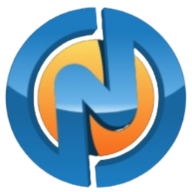
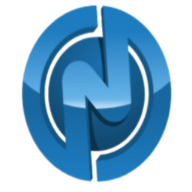
sidebar modified alongside welcome of dashboardMain

diff --git a/app/dashboard/page.jsx b/app/dashboard/page.jsx
@@ -7,7 +7,7 @@ import globalStyle from '../globals.css';
 
 import { FontAwesomeIcon } from '@fortawesome/react-fontawesome'; 
 
-import { faHome, faChevronDown, faTasks, faPeopleGroup, faMoneyBill, faUser, faGear, faRightFromBracket } from '@fortawesome/free-solid-svg-icons';
+import { faHome, faPeopleGroup, faMoneyBill, faUser, faGear, faRightFromBracket } from '@fortawesome/free-solid-svg-icons';
 
 import Metadata from '../components/Metadata';
 import Profile from '../profile/page';
@@ -20,6 +20,18 @@ import Survey from '../survey/page';
 import Transactions from '../transactions/page';
 import Settings from '../settings/page';
 import Logout from '../logout/page';   
+
+
+
+import {  
+  Users,   
+  FileText, 
+  BarChart2, 
+  User, 
+  Settings as SettingsIcon, 
+  LogOut, 
+  ChevronDown 
+} from 'lucide-react'; 
 
 const DashBoard = () => {
   // Set 'dashboardMain' as the default active component
@@ -65,80 +77,107 @@ const DashBoard = () => {
 
       {/* Dashboard Left Section (Side Bar) */}
       <div className='w-1/6 bg-[lightseagreen] dashboard-sidebar-border h-[100vh] sticky top-0 left-0 bottom-0 border-2 border-[lightseagreen] border-solid text-center align-middle py-6 text-white text-2xl font-semibold'>
-        <div className='flex items-center justify-center align-middle'>
-          <img src="/logo2.png" className='w-48 lg:w-48 h-44 mb-6 mr-2' alt="NJANGI Logo" /> 
-        </div>
+        
+        <div className='flex items-center justify-center mb-4 mt-[-15px]'>
+          <div className=' rounded-full p-2 w-60 h-60 flex flex-col items-center justify-center'>
+            <img src="/logo3.png" className='w-32 lg:w-32 h-32 mr-2 ' alt="NJANGI Logo" /> 
+            <h1 className=' tracking-wider text-4xl font-extrabold'>NJANGIFY</h1> 
+          </div>
+        </div> 
 
+       
         <div 
           onClick={() => setActiveComponent('dashboardMain')} 
-          className={`mb-4 flex align-middle justify-center hover:bg-white hover:text-[lightseagreen] hover:py-1 hover:cursor-pointer ease-in-out duration-300 ${activeComponent === 'dashboardMain' ? 'text-gold' : ''}`}
+          className={`mb-2 mt-[-20px] flex items-center px-4 py-2 rounded-lg duration-300 ease-in-out hover:bg-white hover:text-teal-500 cursor-pointer transition-all ${activeComponent === 'dashboardMain' ? 'bg-white text-teal-500' : ''}`}
         >
-          <FontAwesomeIcon icon={faHome} className='h-8 w-8' />   
-          <h1 className='tracking-wider ml-2 mt-[3px]'>Dashboard</h1>
+          <FontAwesomeIcon icon={faHome} className='h-6 w-6' /> 
+          <span className='ml-3'>Dashboard</span>
         </div>
+
 
         <div className='relative mb-4'>
           <div 
-            className='flex items-center justify-center hover:bg-white hover:text-[lightseagreen] hover:py-1 hover:cursor-pointer ease-in-out duration-300 p-2 rounded' 
-            onClick={toggleDropdown}
-          >
+            className={`flex items-center justify-between px-4 py-2 rounded-lg hover:bg-white hover:text-teal-500 duration-300 ease-in-out cursor-pointer transition-all ${isOpen && 'mb-1'} ${['about-you', 'income', 'identity', 'survey'].includes(activeComponent) ? 'bg-white text-teal-500' : ''}`} 
+            onClick={toggleDropdown}>
             <div className='flex items-center'>
-              <FontAwesomeIcon icon={faTasks} className='h-8 w-8' />  
-              <h1 className='tracking-wider ml-2'>Complete</h1>
+              <FileText size={20} />
+              <span className='ml-3'>Complete</span>
             </div>
-            <FontAwesomeIcon icon={faChevronDown} className={`h-5 w-5 ml-2 ease-in-out duration-[250ms] transform transition-transform ${isOpen ? 'rotate-180' : ''}`} />
+            <ChevronDown className={`h-5 w-5 transition-transform duration-200 ${isOpen ? 'rotate-180' : ''}`} />
           </div>
 
-          {/* Complete Dropdown List */}
           {isOpen && (
-            <ul className='mt-2 w-full rounded ease-in-out duration-300'>
-              <li className={`p-2 hover:bg-slate-200 hover:text-[lightseagreen] hover:cursor-pointer hover:py-1 ease-in-out duration-300 ${activeComponent === 'about-you' ? 'text-gold' : ''}`} onClick={() => setActiveComponent('about-you')}>About You</li>
-              <li className={`p-2 hover:bg-slate-200 hover:text-[lightseagreen] hover:cursor-pointer hover:py-1 ease-in-out duration-300 ${activeComponent === 'income' ? 'text-gold' : ''}`} onClick={() => setActiveComponent('income')}>Income</li>
-              <li className={`p-2 hover:bg-slate-200 hover:text-[lightseagreen] hover:cursor-pointer hover:py-1 ease-in-out duration-300 ${activeComponent === 'identity' ? 'text-gold' : ''}`} onClick={() => setActiveComponent('identity')}>Identity</li>
-              <li className={`p-2 hover:bg-slate-200 hover:text-[lightseagreen] hover:cursor-pointer hover:py-1 ease-in-out duration-300 ${activeComponent === 'survey' ? 'text-gold' : ''}`} onClick={() => setActiveComponent('survey')}>Survey</li>
+            <ul className='mt-1 w-full rounded-lg overflow-hidden duration-300 ease-in-out transition-all bg-teal-600'>
+              <li 
+                className={`py-2 pl-12 pr-4 hover:bg-white duration-300 ease-in-out hover:text-teal-500 text-list-complete cursor-pointer transition-all text-left ${activeComponent === 'about-you' ? 'bg-white text-teal-500' : ''}`} 
+                onClick={() => setActiveComponent('about-you')}
+              >
+                About You
+              </li> 
+              <li 
+                className={`py-2 pl-12 pr-4 hover:bg-white duration-300 ease-in-out hover:text-teal-500 text-list-complete cursor-pointer transition-all text-left ${activeComponent === 'income' ? 'bg-white text-teal-500' : ''}`} 
+                onClick={() => setActiveComponent('income')}
+              >
+                Income
+              </li>
+              <li 
+                className={`py-2 pl-12 pr-4 hover:bg-white duration-300 ease-in-out hover:text-teal-500 cursor-pointer text-list-complete transition-all text-left ${activeComponent === 'identity' ? 'bg-white text-teal-500' : ''}`} 
+                onClick={() => setActiveComponent('identity')}
+              >
+                Identity
+              </li>
+              <li 
+                className={`py-2 pl-12 pr-4 hover:bg-white duration-300 ease-in-out hover:text-teal-500 cursor-pointer text-list-complete transition-all text-left ${activeComponent === 'survey' ? 'bg-white text-teal-500' : ''}`} 
+                onClick={() => setActiveComponent('survey')}
+              >
+                Survey
+              </li>
             </ul>
           )}
         </div>
 
         <div 
           onClick={() => setActiveComponent('groups')}  
-          className={`mt-4 flex items-center justify-center hover:bg-white hover:text-[lightseagreen] hover:py-1 hover:cursor-pointer ease-in-out duration-300 ${activeComponent === 'groups' ? 'text-gold' : ''}`}
+          className={`mb-2 flex items-center px-4 py-2 duration-300 ease-in-out rounded-lg hover:bg-white hover:text-teal-500 cursor-pointer transition-all ${activeComponent === 'groups' ? 'bg-white text-teal-500' : ''}`}
         >
-          <FontAwesomeIcon icon={faPeopleGroup} className='h-10 w-10' />
-          <h1 className='tracking-wider ml-2 mt-[6px]'>Groups</h1> 
-        </div>
+          <FontAwesomeIcon icon={faPeopleGroup} className='h-8 w-8' /> 
+          <span className='ml-3'>Groups</span>
+        </div> 
 
         <div 
           onClick={() => setActiveComponent('transactions')}  
-          className={`mt-5 flex items-center hover:bg-white hover:text-[lightseagreen] hover:py-1 justify-center hover:cursor-pointer ease-in-out duration-300 ${activeComponent === 'transactions' ? 'text-gold' : ''}`}
+          className={`mb-2 flex items-center px-4 py-2 duration-300 ease-in-out rounded-lg hover:bg-white hover:text-teal-500 cursor-pointer transition-all ${activeComponent === 'transactions' ? 'bg-white text-teal-500' : ''}`}
         >
-          <FontAwesomeIcon icon={faMoneyBill} className='h-10 w-10' />
-          <h1 className='tracking-wider ml-2 mt-[6px]'>Transactions</h1> 
+          <FontAwesomeIcon icon={faMoneyBill} className='h-7 w-7' />
+          <span className='ml-3'>Transactions</span>
         </div>
+
 
         <div 
           onClick={() => setActiveComponent('profile')} 
-          className={`mt-5 mb-4 flex align-middle justify-center hover:bg-white hover:text-[lightseagreen] hover:py-1 hover:cursor-pointer ease-in-out duration-300 ${activeComponent === 'profile' ? 'text-gold' : ''}`}
+          className={`mb-2 flex items-center px-4 py-2 rounded-lg hover:bg-white hover:text-teal-500 cursor-pointer transition-all ${activeComponent === 'profile' ? 'bg-white text-teal-500' : ''}`}
         >
-          <FontAwesomeIcon icon={faUser} className='h-8 w-8' />  
-          <h1 className='tracking-wider ml-2 mt-[3px]'>Profile</h1>
+          <FontAwesomeIcon icon={faUser} className='h-6 w-6' /> 
+          <span className='ml-3'>Profile</span>
         </div>
 
-        <div 
+       <div 
           onClick={() => setActiveComponent('settings')} 
-          className={`mt-5 mb-4 flex align-middle justify-center hover:bg-white hover:text-[lightseagreen] hover:py-1 hover:cursor-pointer ease-in-out duration-300 ${activeComponent === 'settings' ? 'text-gold' : ''}`}
+          className={`mb-5 flex items-center px-4 py-2 rounded-lg hover:bg-white hover:text-teal-500 cursor-pointer transition-all ${activeComponent === 'settings' ? 'bg-white text-teal-500' : ''}`}
         >
-          <FontAwesomeIcon icon={faGear} className='h-8 w-8' />  
-          <h1 className='tracking-wider ml-2 mt-[3px]'>Settings</h1>
+          <FontAwesomeIcon icon={faGear} className='h-6 w-6' />  
+          <span className='ml-3'>Settings</span>
         </div>
 
         <div 
           onClick={() => setActiveComponent('logout')} 
-          className={`mt-5 mb-4 flex align-middle justify-center hover:bg-white hover:text-[lightseagreen] hover:py-1 hover:cursor-pointer ease-in-out duration-300 ${activeComponent === 'logout' ? 'text-gold' : ''}`}
+          className={`mb-2 mt-[-20px] flex items-center px-4 py-2 rounded-lg hover:bg-white hover:text-teal-500 cursor-pointer transition-all ${activeComponent === 'logout' ? 'bg-white text-teal-500' : ''}`}
         >
-          <h1 className='tracking-wider mr-3 mt-[3px]'>Logout</h1>
-          <FontAwesomeIcon icon={faRightFromBracket} className='h-8 w-8 pt-[2px]' />  
+          <FontAwesomeIcon icon={faRightFromBracket} className='h-6 w-6' />  
+          <span className='ml-3'>Logout</span>
         </div>
+
+
       </div>
 
       {/* Dashboard Right Section - Display Each SideBar Header content dynamically */}

diff --git a/app/dashboardMain/page.jsx b/app/dashboardMain/page.jsx
@@ -19,9 +19,10 @@ const DashboardMain = () => {
     <div className="p-8">
       {/* Header */}
       <div className="flex justify-between items-center mb-8">
-        <div>
-          <h1 className="text-3xl font-bold text-gray-800">Dashboard</h1>
-          <p className="text-gray-500">Welcome back, John Doe</p>
+        <div  className='pt-4'>
+          <h1 className="text-4xl font-bold text-gray-800">Welcome!!!,
+            <span className='text-[lightseagreen] text-[42px] '>Ottia Praise</span>
+          </h1>
         </div>
         <div className="flex items-center space-x-4">
           <div className="relative">
@@ -33,7 +34,7 @@ const DashboardMain = () => {
             <Search className="absolute left-3 top-2.5 text-gray-400" size={18} />
           </div>
           <div className="relative">
-            <Bell className="text-gray-600 cursor-pointer" />
+            <Bell className="text-gray-600 cursor-pointer" /> 
             <span className="absolute -top-1 -right-1 bg-red-500 text-white text-xs rounded-full h-4 w-4 flex items-center justify-center">3</span>
           </div>
           <div className="w-10 h-10 rounded-full bg-teal-500 flex items-center justify-center text-white font-bold">

diff --git a/app/globals.css b/app/globals.css
@@ -83,3 +83,8 @@ body {
   color: rgb(186, 159, 2) !important; 
 }
 
+
+.text-list-complete{
+  font-size: 20px !important;
+  padding-left: 70px; 
+}
